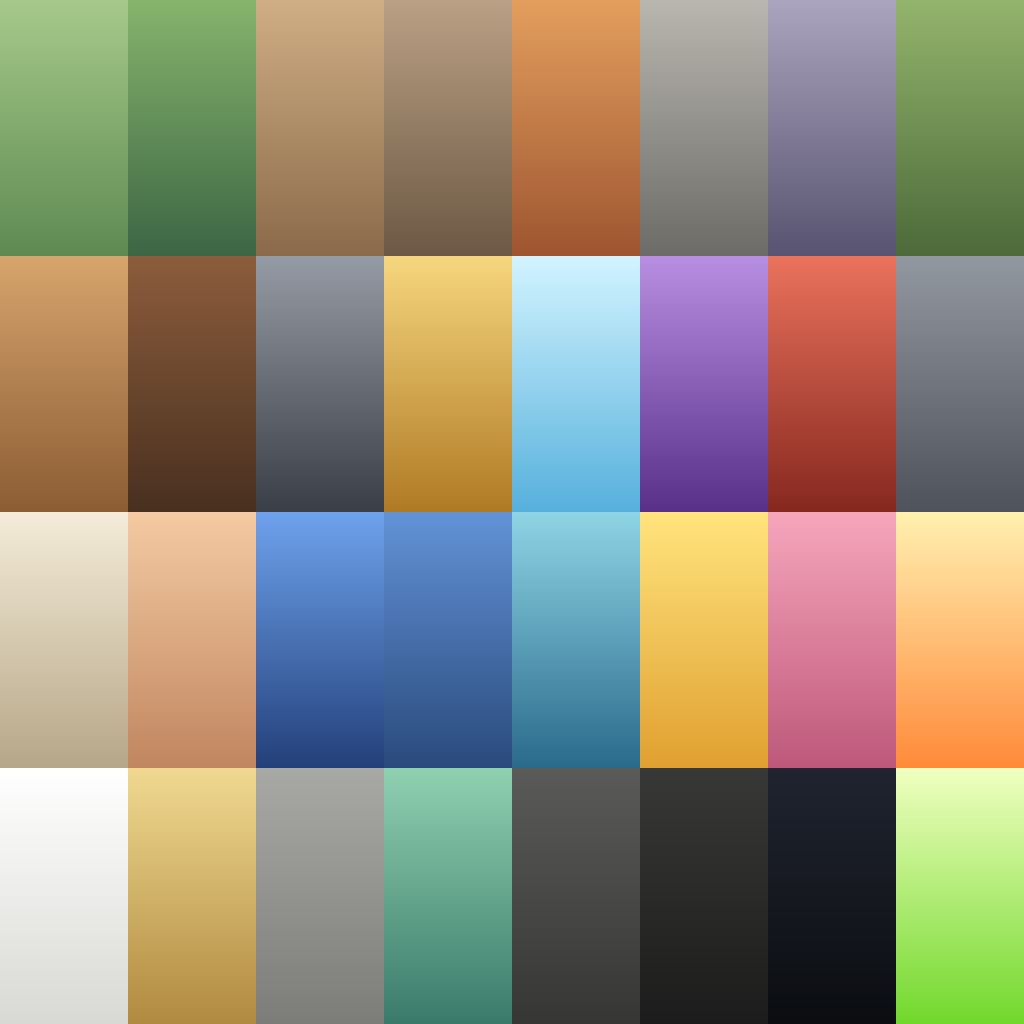
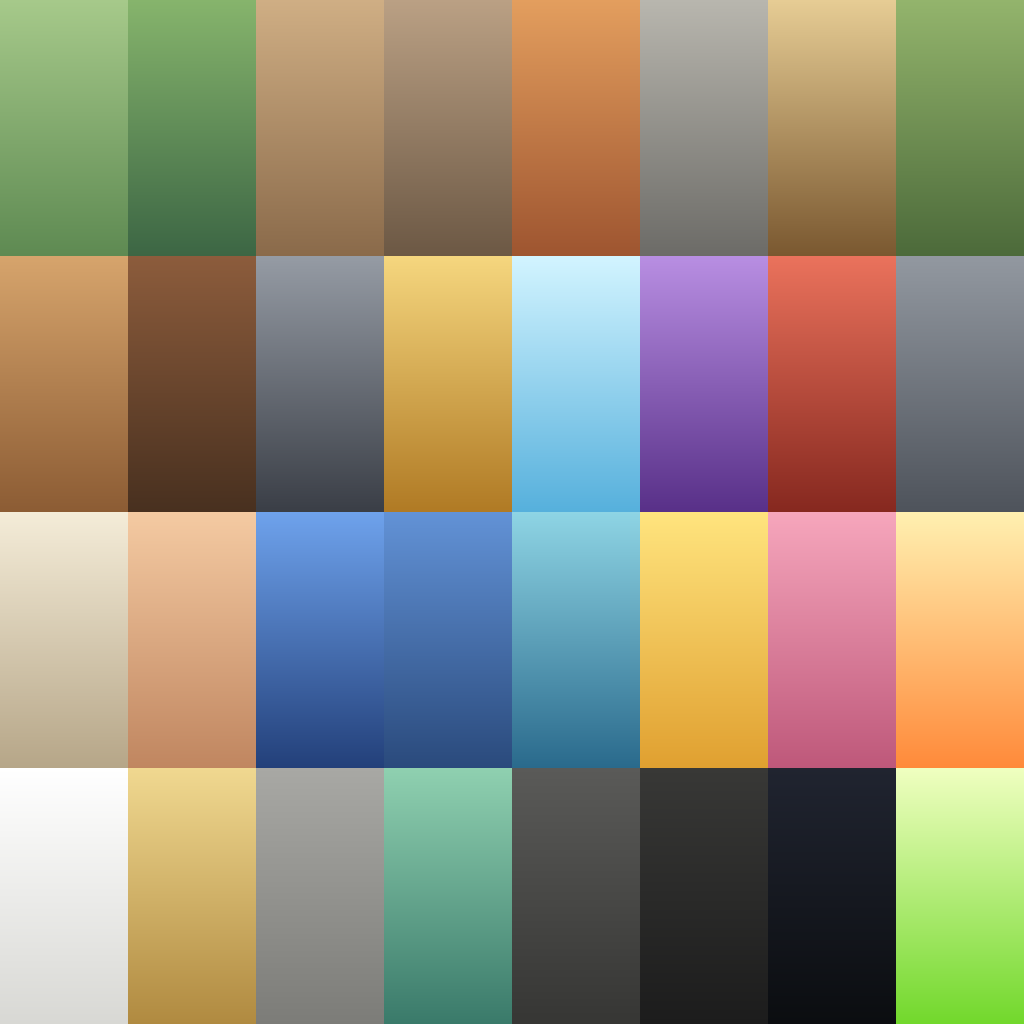
12.34 (part 1) Golden temple: the piedra_templo swatch becomes a gold sandstone (e6cc94/7a5830, like the final boss's gold) instead of the light blue-violet; the templo LOOK gets a warm ambient and sun and a muted gold floor. The floor and lights reach the level on the next templo refresh

Changed region(s): [[0.75, 0.0, 0.875, 0.25]]

diff --git a/tools/blender/epiphany_palette.py b/tools/blender/epiphany_palette.py
@@ -21,7 +21,7 @@ SWATCHES = [
 	("acantilado", "baa084", "6c5844"),
 	("roca_naranja", "e39e5e", "9e5530"),
 	("piedra", "b8b6ae", "6c6b67"),
-	("piedra_templo", "aaa4be", "585370"),
+	("piedra_templo", "e6cc94", "7a5830"),
 	("musgo", "93b46c", "4c6a3a"),
 	("madera", "d6a46c", "8c5c34"),
 	("madera_oscura", "8c5c3c", "48301f"),
